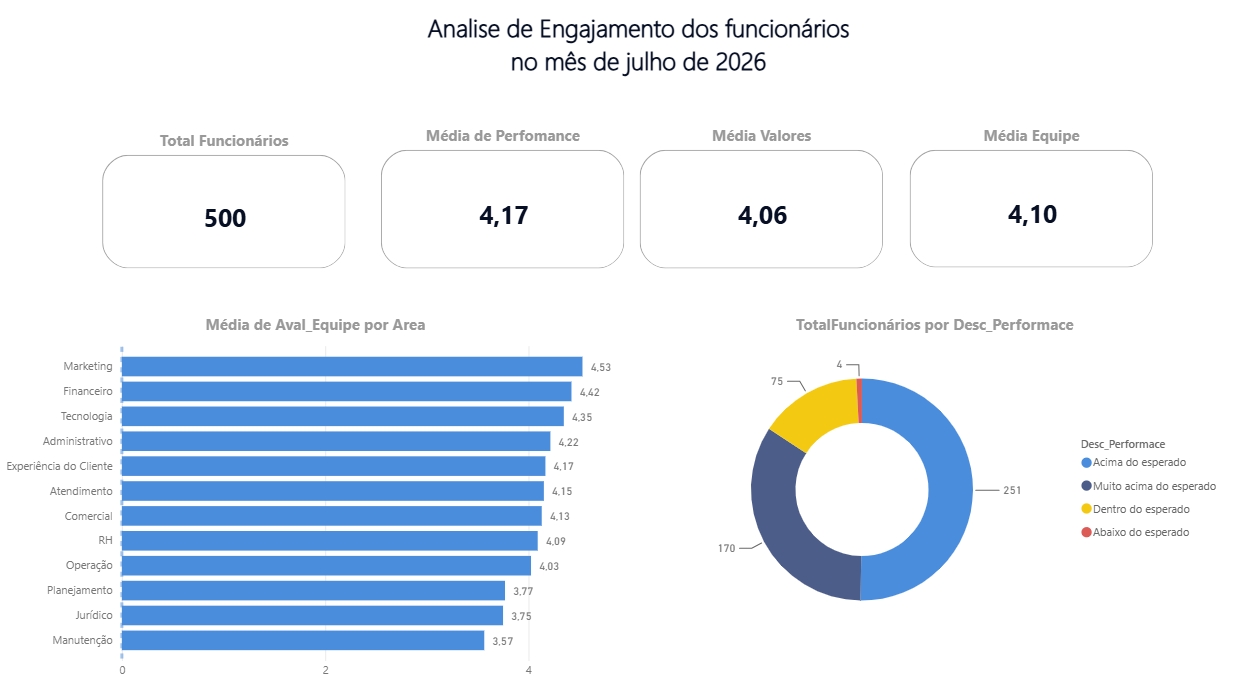
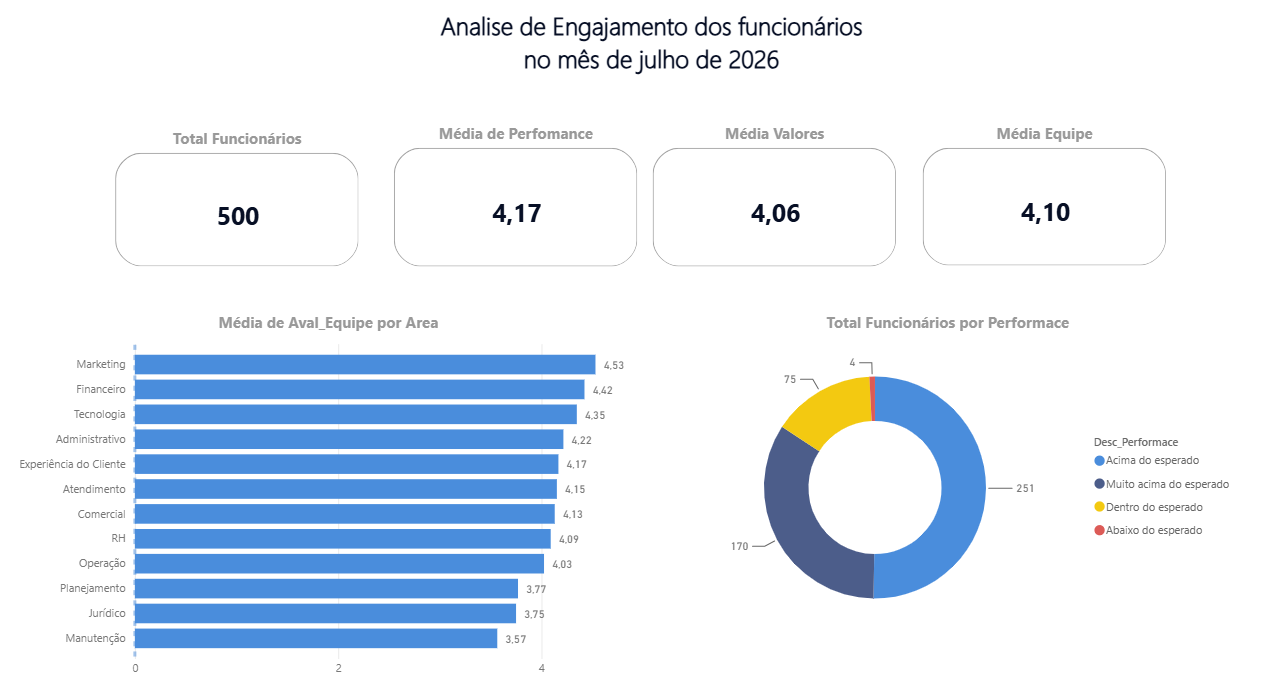
Docs: Insercao do video no README

diff --git a/README.md b/README.md
@@ -3,6 +3,9 @@ Esse projeto foi elaborado como parte de um processo seletivo que estou particip
 a relação entre as variáveis que impactam tanto no engajamento do funcionário como nas entregas, onde com esses
 resultados tornar o ambiente da empresa mais confortável.
 
+## Video Apresentação
+No [vídeo](https://youtu.be/vkAYYM45xp4) eu expliquei o processo utilizado para analisar os dados do case e os principais insights adquiridos nesse processo.
+
 ## Objetivo:
 * Identificar os fatores mais associados à satisfação e ao engajamento dos colaboradores, produzindo recomendações baseadas em dados para apoiar decisões de gestão de pessoas.
 * Buscar insights para melhorar o ambiente colaborativo
